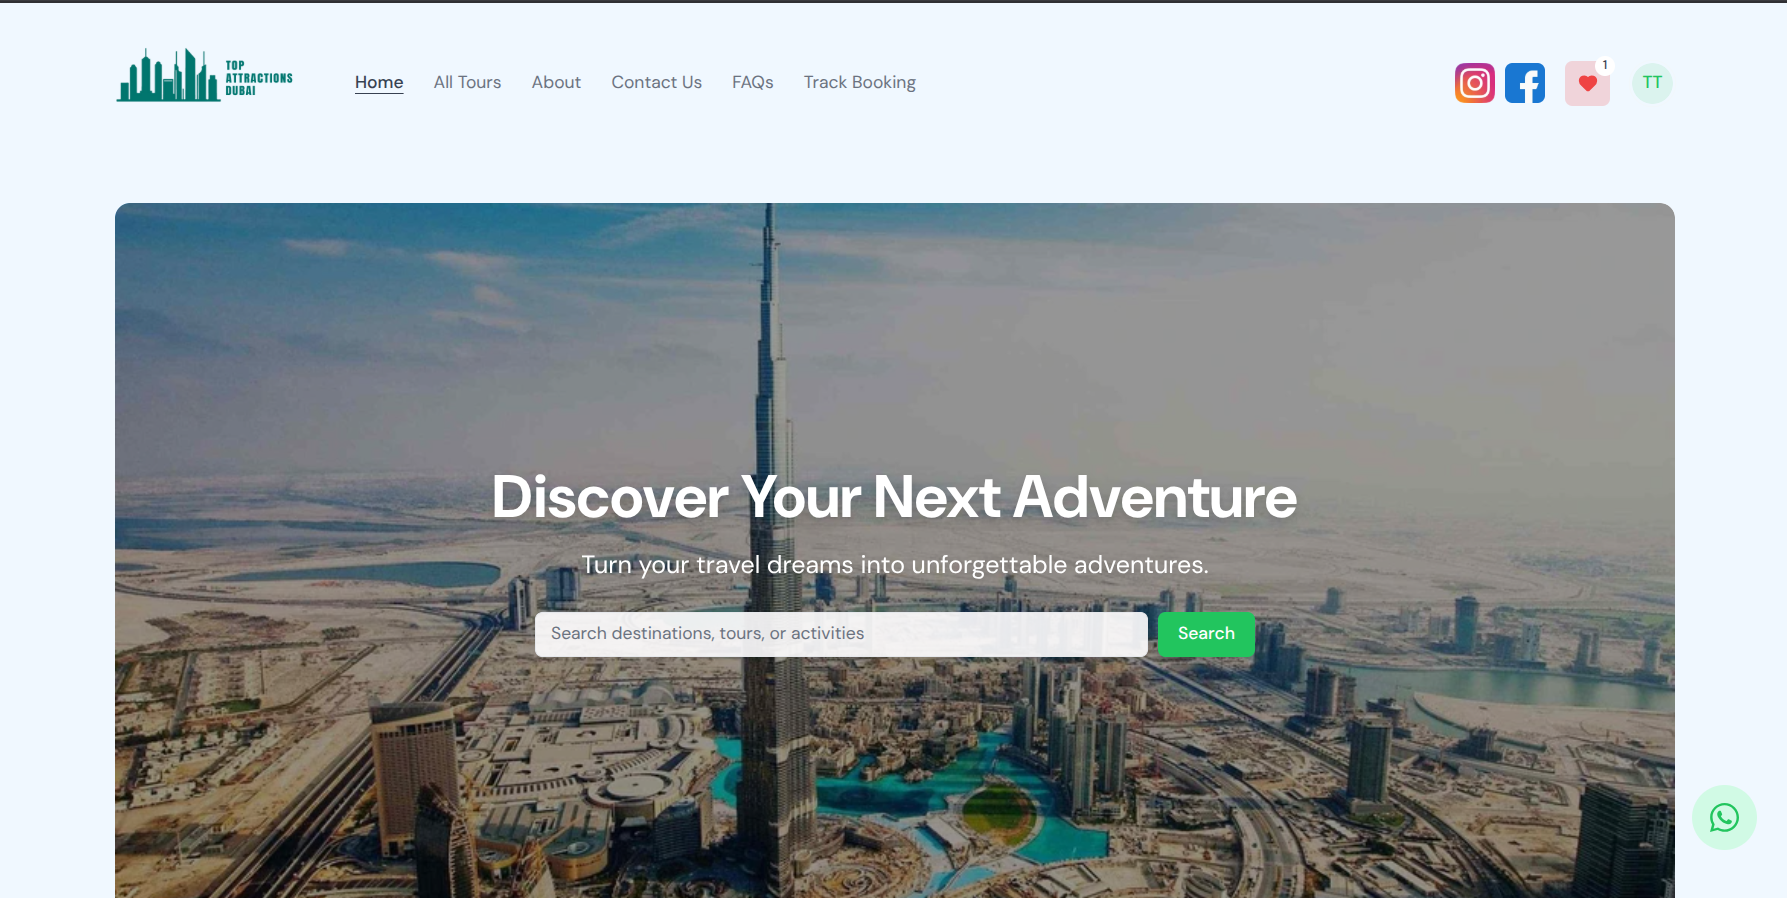
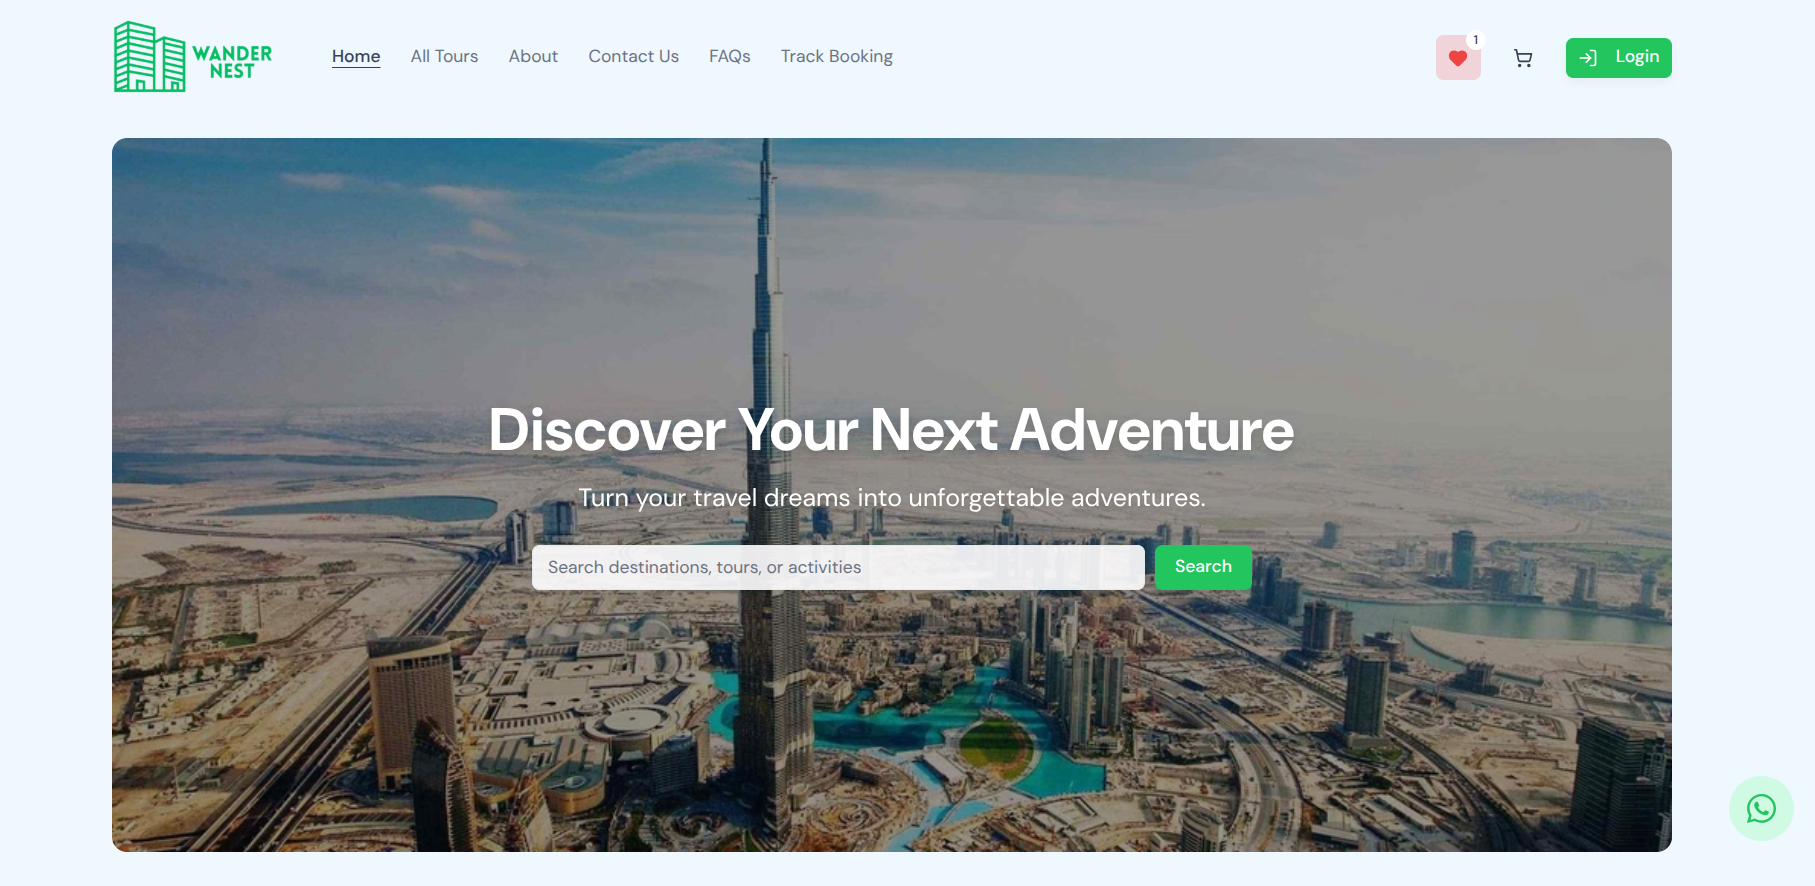
Update README.md

diff --git a/README.md b/README.md
@@ -1,4 +1,4 @@
-# Tours App — Web + Admin panel
+# WanderNest - Tour Tickets Booking App
 
 <p align="center">
   <!-- Logo (small) -->
@@ -88,36 +88,44 @@ This application is a two-panel (customer-facing front-panel and admin panel) to
 ---
 
 ## Repository layout
+```
 (root)
-├─ admin/ #Admin app (react-router)
-├─ front-panel/ # Public front-end (react-router)
+├─ admin/ #Admin app (react-router-framework)
+├─ front-panel/ # Public front-end (react-router-framework)
 ├─ shared/ # Shared functionality (e.g. Supabase functions)
 ├─ supabase/ # Migrations / config for DB
 ├─ .env.sample
 ├─ .tsconfig.base.json
 ├─ package.json # npm workspaces + scripts
-
+```
 Root `package.json` uses npm workspaces and defines convenience scripts: `dev:admin`, `dev:front`, `dev` (both), and build scripts for each workspace. Use these for local development. 
 
 ## Environment variables
 ```dotenv
 VITE_ENV=<production or development>
+NODE_ENV=<production or development>
 VITE_PROJECT_ID=<ADD_YOUR_PROJECT_ID>
 VITE_SUPABASE_URL=<ADD_YOUR_SUPABASE_URL>
 SUPABASE_SERVICE_ROLE_KEY=<ADD_YOUR_SUPABASE_SERVICE_ROLE_KEY>
 VITE_SUPABASE_ANON_KEY=<ADD_YOUR_SUPABASE_ANON_KEY>
+
 VITE_RECAPTCHA_SITE_KEY=<RECAPTCHA_SITE_KEY>
 RECAPTCHA_SECRET_KEY=<RECAPTCHA_SECRET_KEY>
+
 VITE_MAIN_APP_URL=<https://www.xyz.com OR http://localhost:PORT>
+
 RESEND_API_KEY=<ADD_RESEND_API_KEY>
+
 VITE_STRIPE_PUBLISHABLE_KEY=<ADD_KEY>
 STRIPE_SECRET_KEY=<ADD_KEY>
+
+REDIS_URL=redis://<USERNAME>:<PASSWORD>@<REDIS_DB_LINK>
 ```
-<i>You can also download sample env file from the root .env.sample</i>
+<i>You can also see sample env file from the root .env.sample</i>
 
 ## Local development
 
-**Prereqs:** Node 18+, npm.
+**Prereqs:** Node 22+, npm.
 
 **Clone and install:**
 
@@ -126,7 +134,6 @@ git clone https://github.com/talha5978/rr-tours-app.git
 cd rr-tours-app
 npm install
 ```
-Create .env files for admin and front-panel if needed. You can put root .env and each app will read VITE_ variables in the client side when you add them in vite.config.ts file and run dev.
 
 **Run both apps for development:**
 ```bash
@@ -150,11 +157,9 @@ npm run build:admin
 npm run build:front
 # or
 npm run build:all
-# e.g for admin-panel
-npm run start
 ```
 
-Or use docker (RUN FROM REPO ROOT)
+Or use docker <b>(RUN FROM REPO ROOT)</b>
 ```bash
 export $(cat .env | xargs)
 
@@ -217,7 +222,7 @@ Vercel handles monorepos and React Router well, but the cleanest split is usuall
 
 Use the Render setup shown above — this keeps your service role key 100% server-side.
 
-### Alternative: Both on Vercel (advanced)
+### Alternative: Both on Vercel
 
 - **Two separate projects** (easiest):
     - Project 1 → Root: `/front-panel`
@@ -225,4 +230,4 @@ Use the Render setup shown above — this keeps your service role key 100% serve
 
 - **Single project + rewrites** → requires `vercel.json` configuration
 
-<u><i>Created by Talha — open an issue or contact at muhammadtalha13457@gmail.com.<i><u>
+<u><i>Developed by Talha — open an issue or contact at muhammadtalha13457@gmail.com.<i><u>
